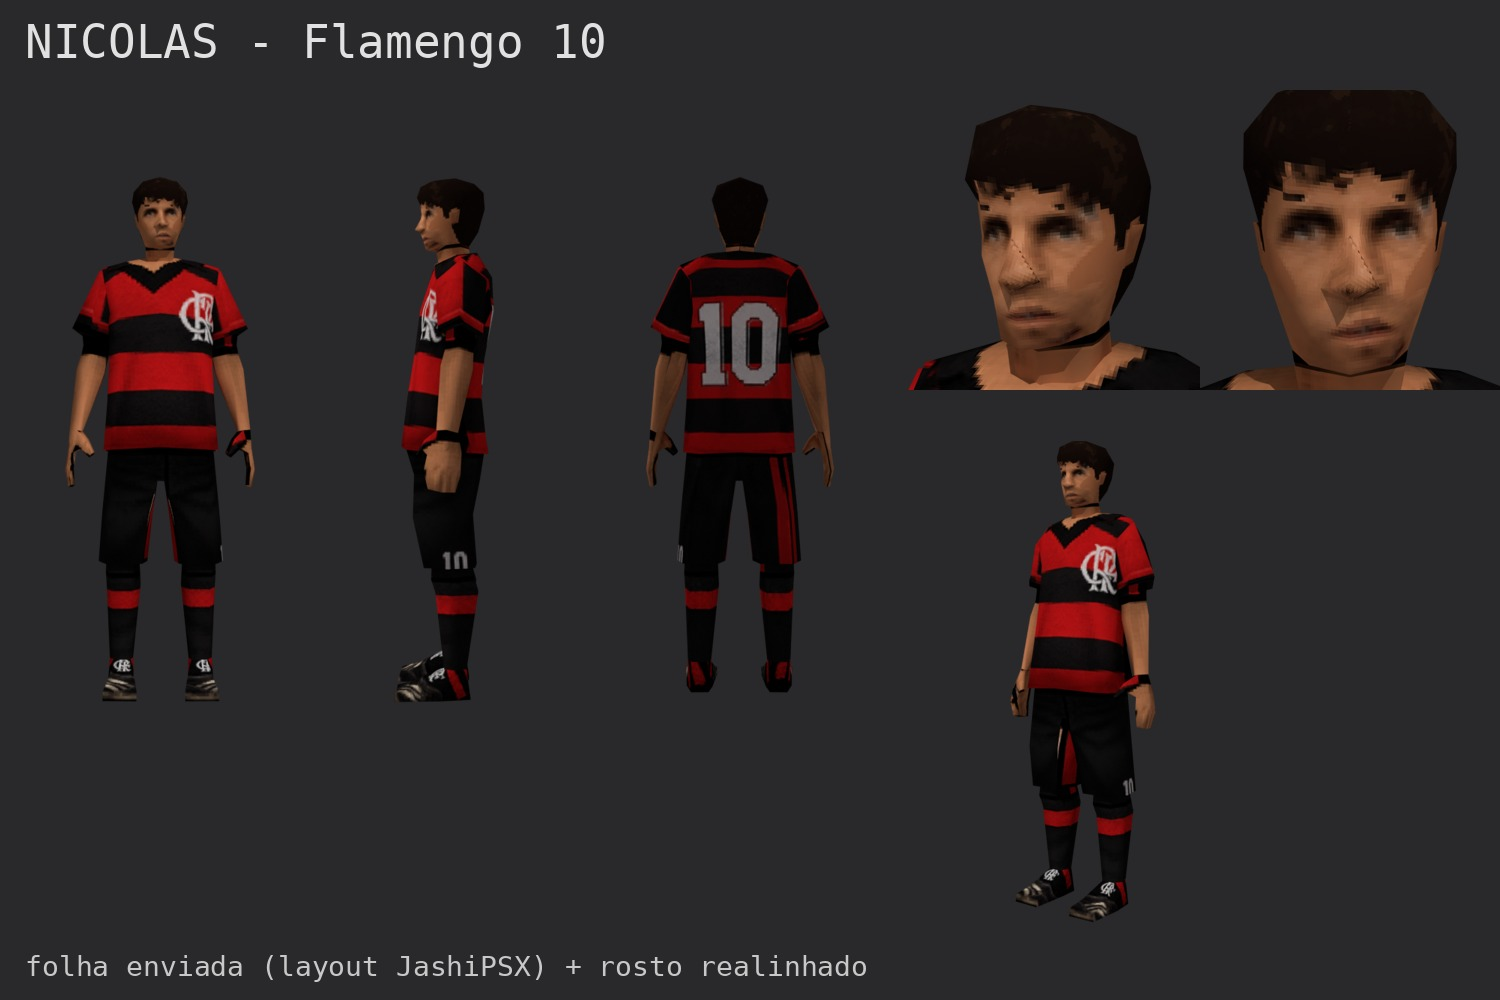
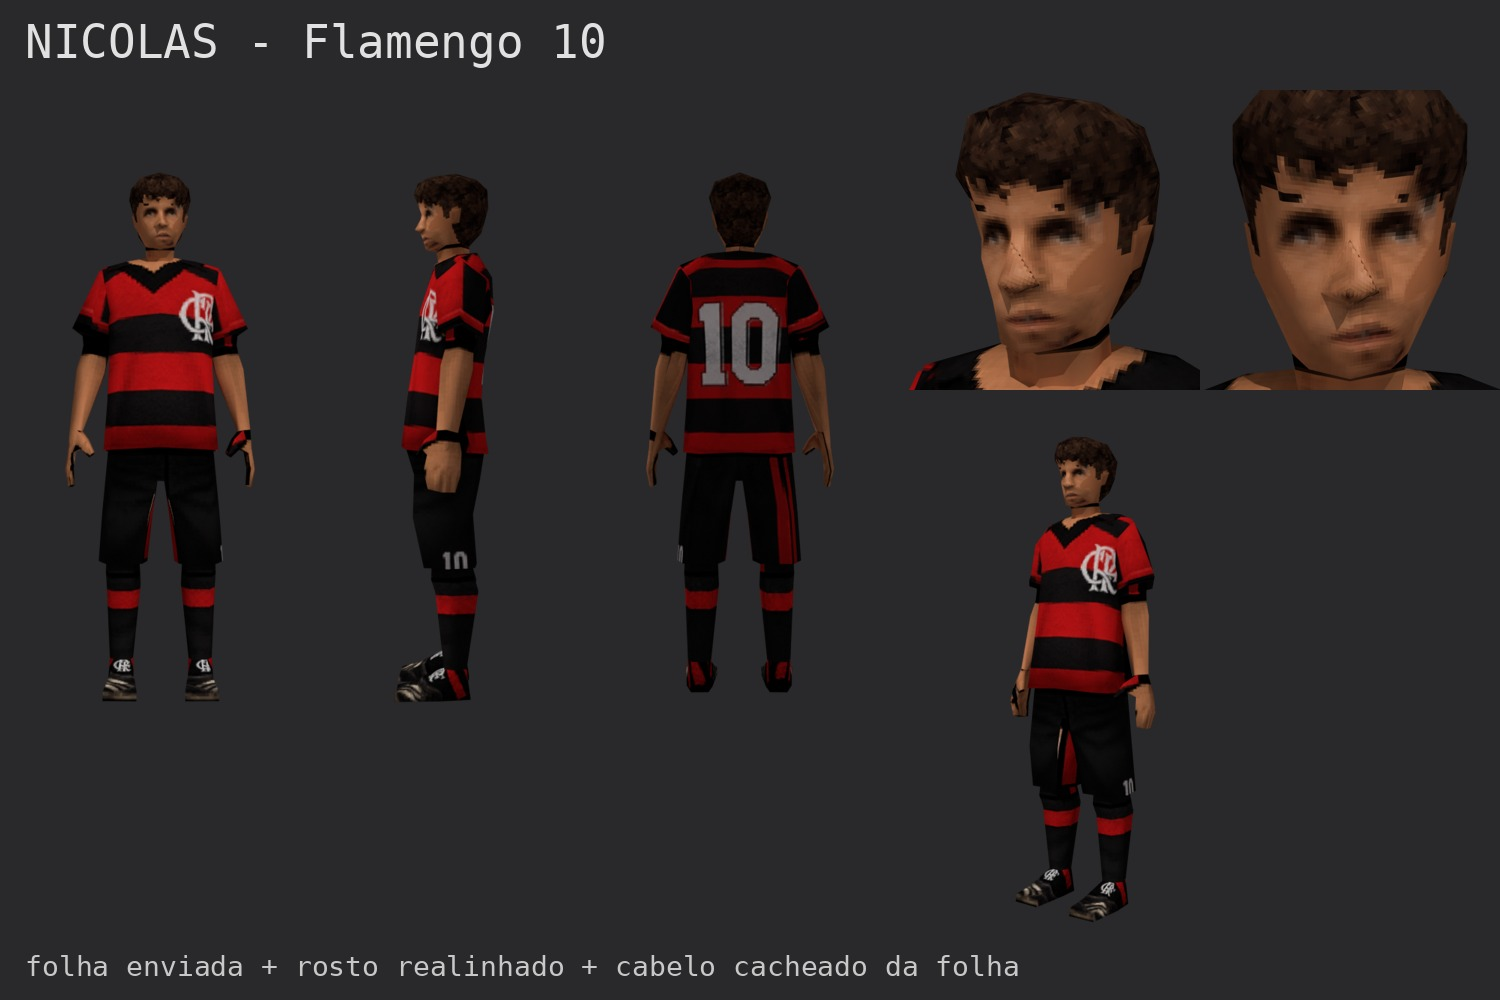
Nicolas: cabelo cacheado da folha e mais volume
Claude-Session: https://claude.ai/code/session_01PVUNKmUDvaP2jpRAvnz1fM

diff --git a/tools/realinhar_rosto.py b/tools/realinhar_rosto.py
@@ -61,7 +61,14 @@ if OR is not None:
         mx_, my_ = X_ / ESC * 512 + 256, (CZ - Z_) / ESC * 512 + 256
         dentro = math.hypot((mx_ - 256) / 80, (my_ - 255) / 105) < 1 and t['n'][1] < -0.3   # olhos/sobrancelha do original
         if l < 75 and not dentro:
-            f = max(0.6, min(1.5, l / 40)); T[x, y] = tuple(int(min(255, CAB[i] * f)) for i in range(3)); m += 1
+            if os.environ.get('CABELO_FOLHA') == '1':      # usa o cabelo desenhado na folha (cachos), não cor lisa
+                c = S[x, y]
+                if True:   # sempre um pedaço de cabelo da folha (cachos), repetido
+                    hx0, hy0, hw, hh = [int(v) for v in os.environ.get('AMOSTRA_CABELO', '1150,400,70,80').split(',')]
+                    c = S[hx0 + x % hw, hy0 + y % hh]
+                T[x, y] = c; m += 1
+            else:
+                f = max(0.6, min(1.5, l / 40)); T[x, y] = tuple(int(min(255, CAB[i] * f)) for i in range(3)); m += 1
         elif Z_ > 1.83 and t['n'][1] > -0.5 and abs(X_) > 0.05:
             mx = X_ / ESC * 512 + 256
             if abs(mx - 256) > 60: T[x, y] = tuple(int(PELE[i] * (0.9 + 0.1 * (l / 160))) for i in range(3))

diff --git a/tools/blender/montar_jashi.py b/tools/blender/montar_jashi.py
@@ -23,6 +23,12 @@ for v in (bm.verts if os.environ.get('CABELO_CURTO', '1') == '1' else []):
     if w.z > 1.90 or (w.y > 0.02 and w.z > 1.80):
         d = w - C; f = 0.84 if w.z > 1.92 else (0.90 if w.z > 1.88 else 0.95)
         v.co = inv @ (C + d * f)
+VOL = float(os.environ.get('CABELO_VOLUME', '1'))
+if VOL != 1:   # cabelo mais cheio (cachos): só o volume de cima/trás, rosto fica
+    for v in bm.verts:
+        w = mw @ v.co
+        if w.z > 1.93 or (w.y > 0.0 and w.z > 1.82):
+            v.co = inv @ (C + (w - C) * VOL)
 bm.to_mesh(h.data); bm.free()
 print('OCULOS removidos:', len(fora))
 import os
